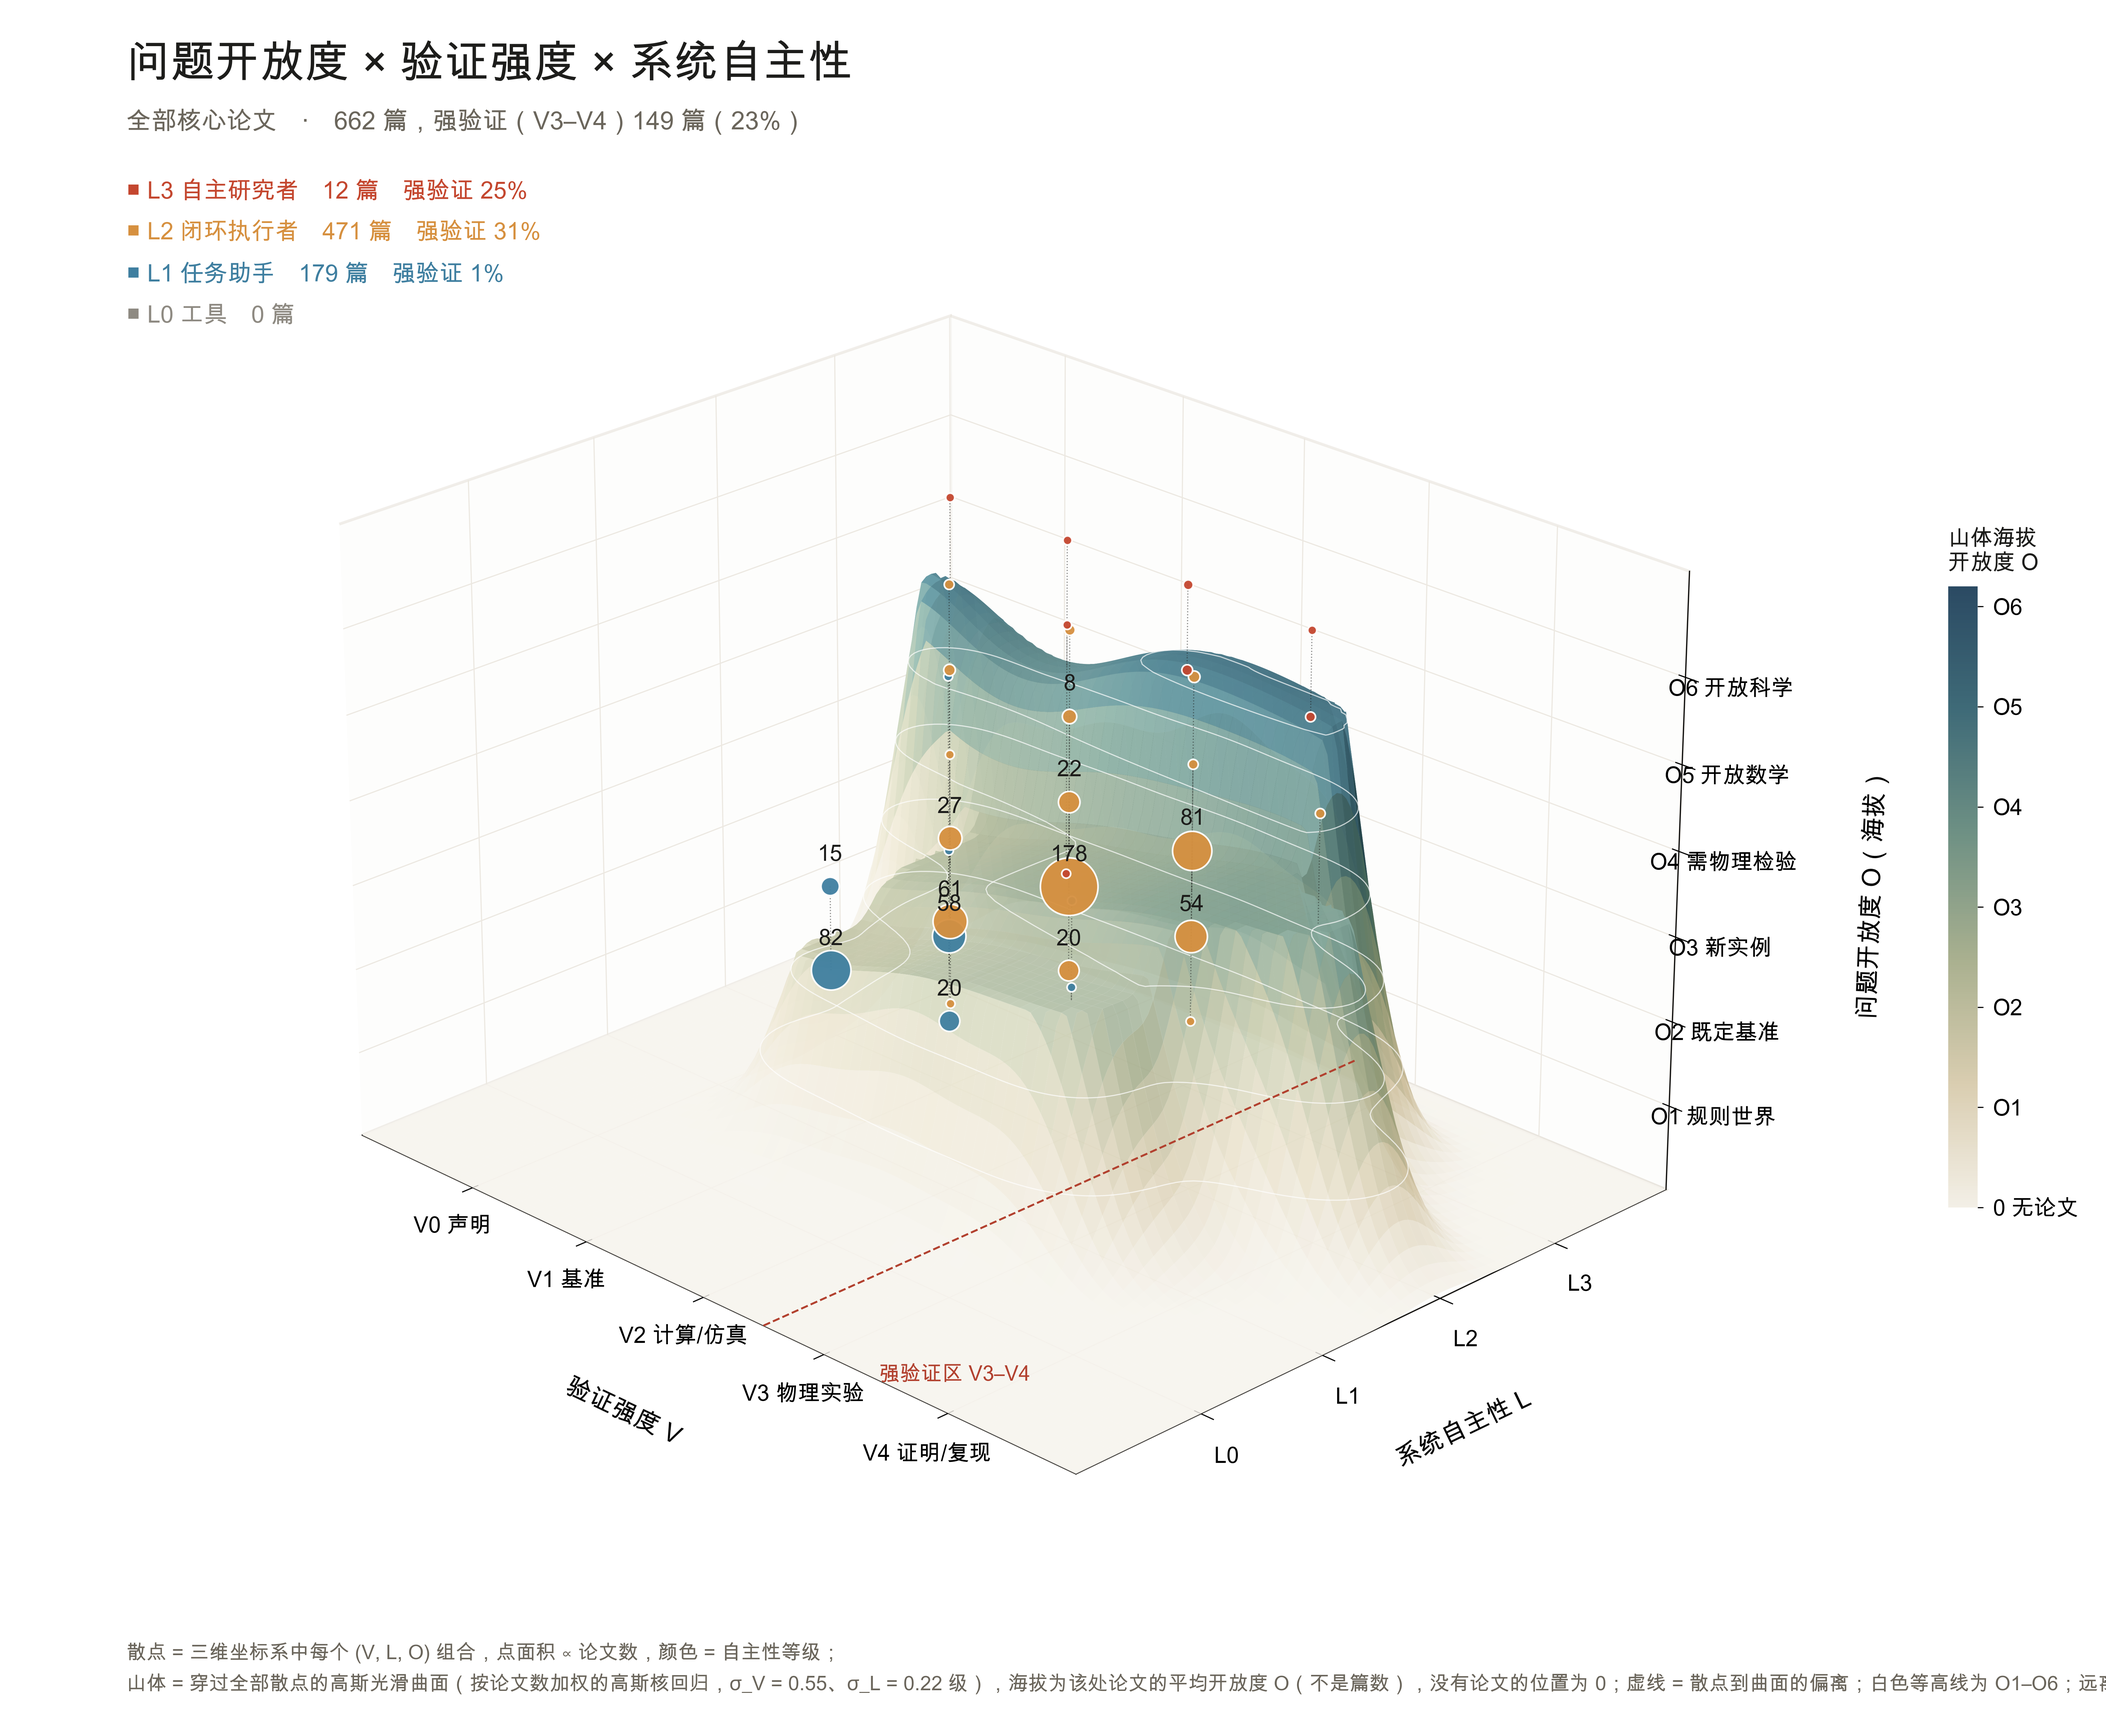
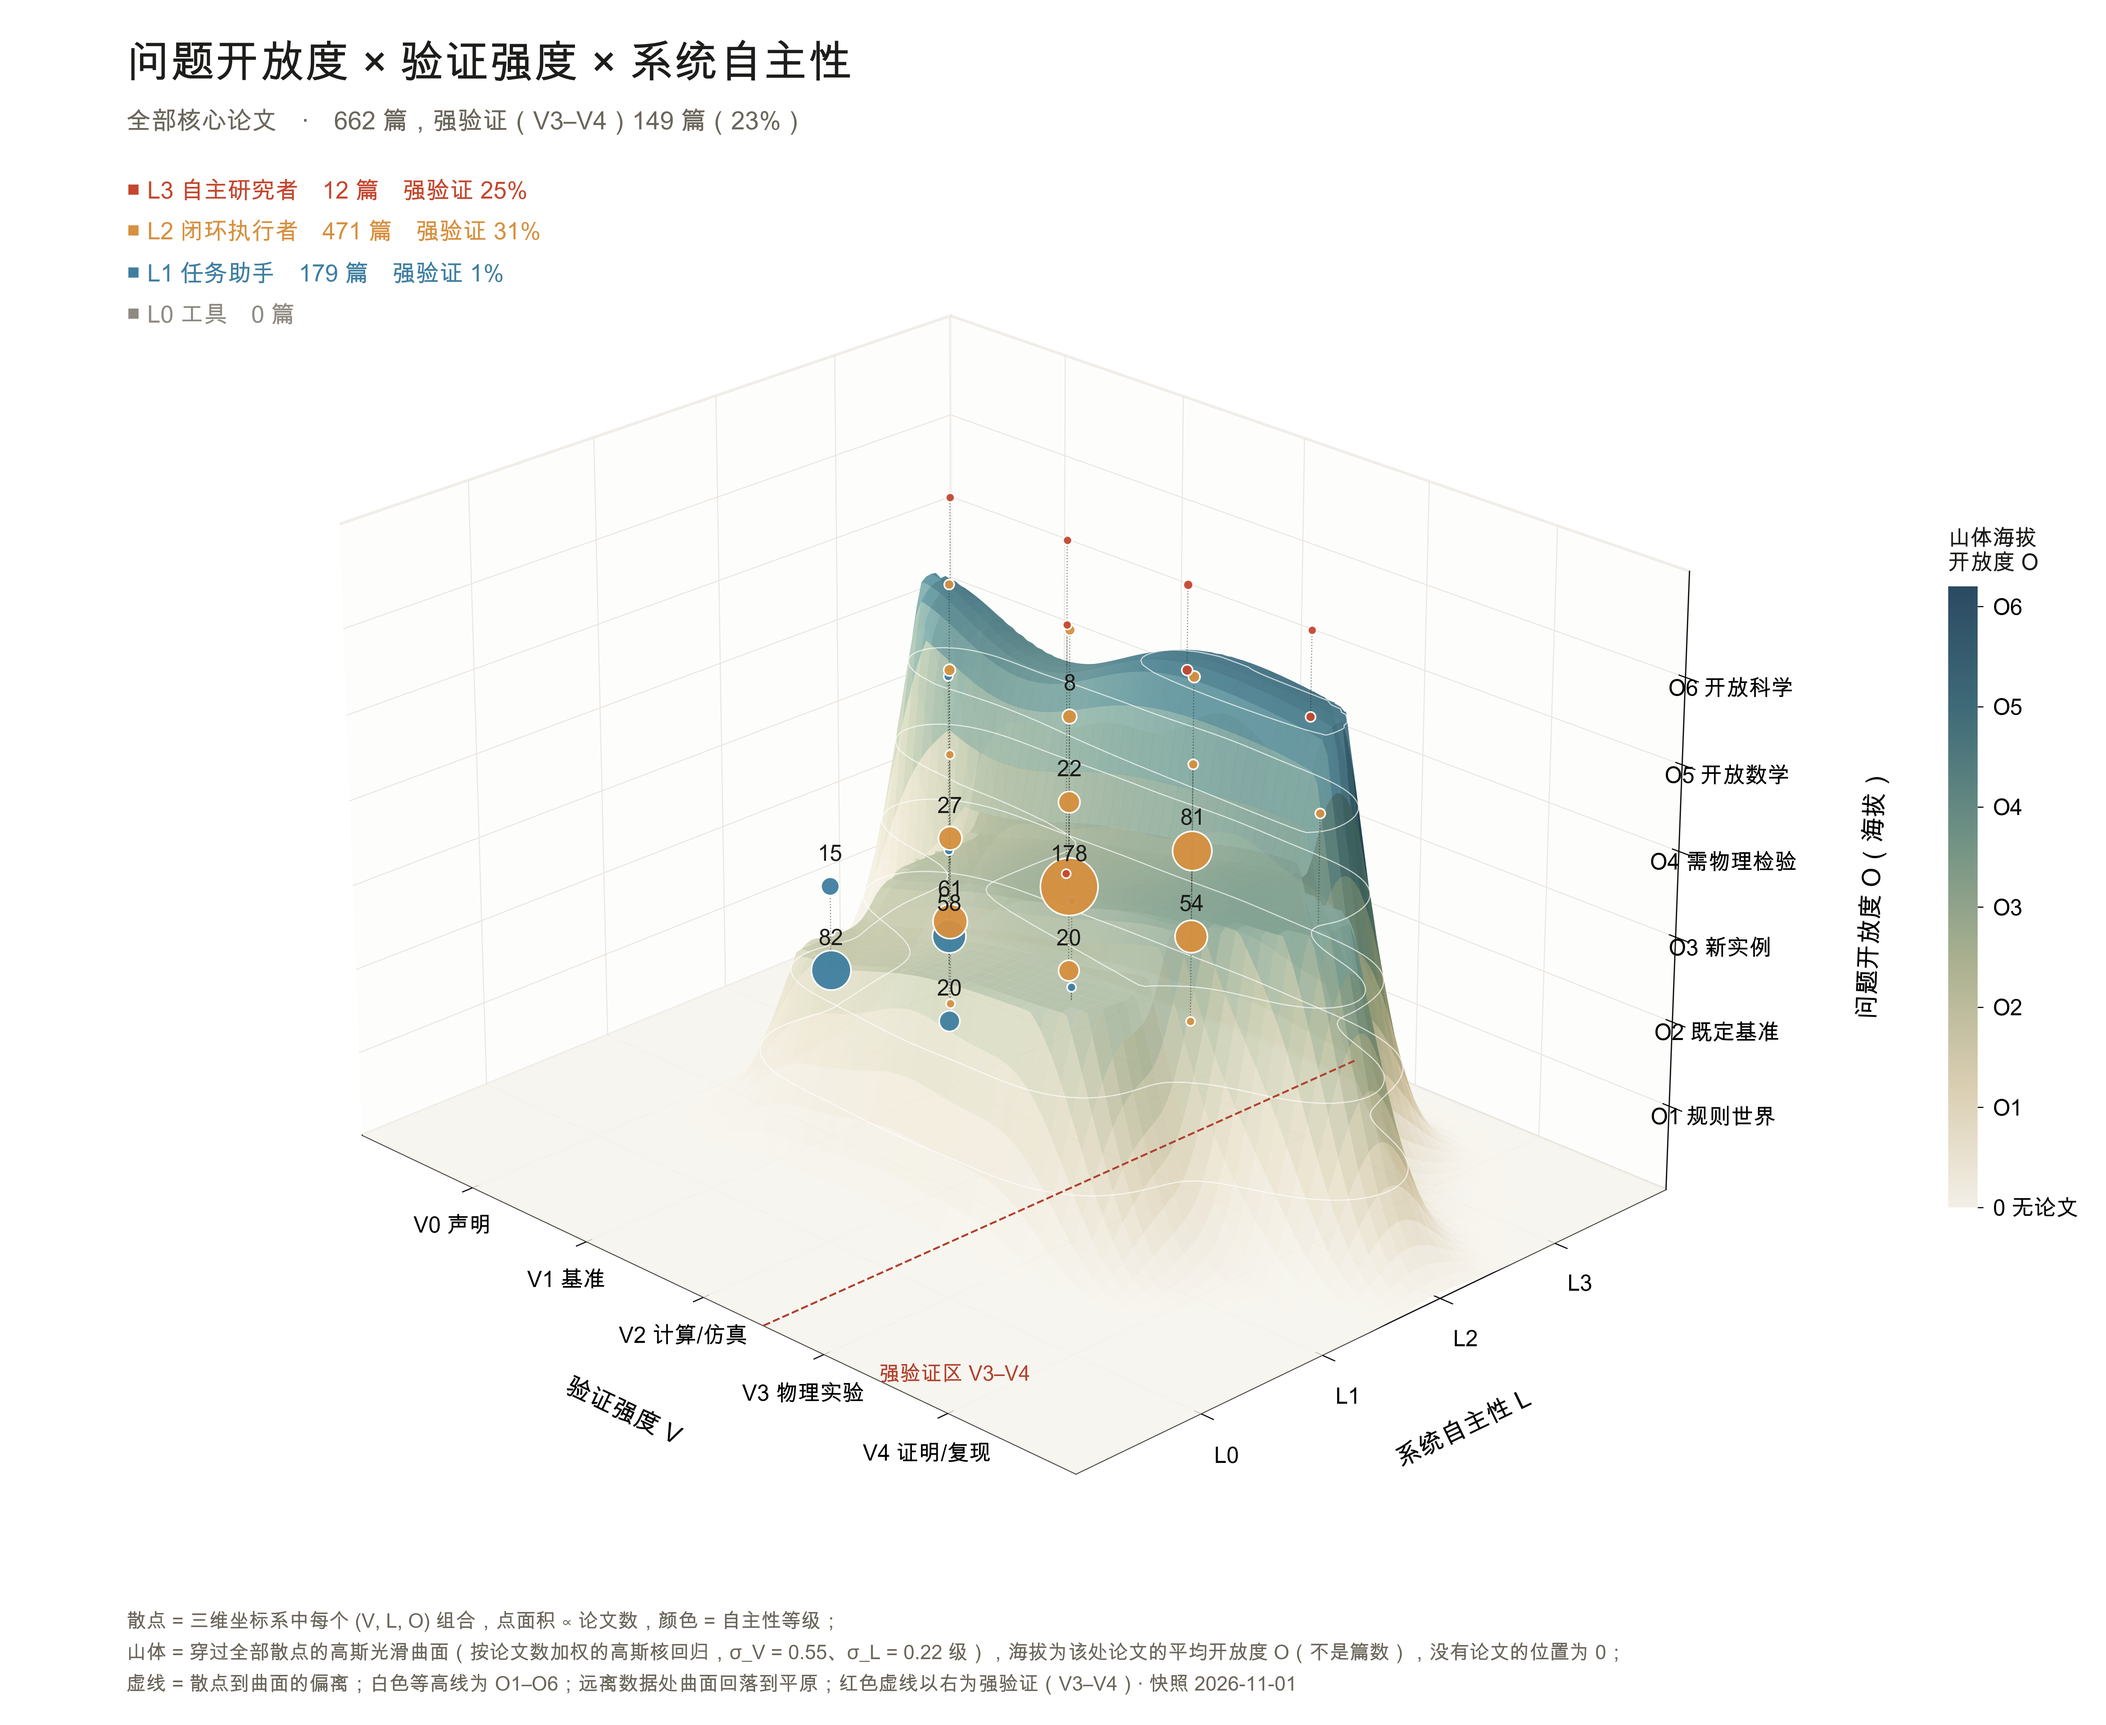
Mountain: wrap the scatter-view footer onto three lines

diff --git a/Autonomous Scientific Discovery/Coverage_Check/openness_verification_increment_2026-11-04/scripts/fig_ovl_surface.py b/Autonomous Scientific Discovery/Coverage_Check/openness_verification_increment_2026-11-04/scripts/fig_ovl_surface.py
@@ -160,7 +160,7 @@ def surface_axes(ax, pts, small=False, cut=False, quant=False):
 
 
 FOOT = ("散点 = 三维坐标系中每个 (V, L, O) 组合，点面积 ∝ 论文数，颜色 = 自主性等级；\n山体 = 穿过全部散点的高斯光滑曲面"
-        "（按论文数加权的高斯核回归，σ_V = 0.55、σ_L = 0.22 级），海拔为该处论文的平均开放度 O（不是篇数），没有论文的位置为 0；虚线 = 散点到曲面的偏离；白色等高线为 O1–O6；"
+        "（按论文数加权的高斯核回归，σ_V = 0.55、σ_L = 0.22 级），海拔为该处论文的平均开放度 O（不是篇数），没有论文的位置为 0；\n虚线 = 散点到曲面的偏离；白色等高线为 O1–O6；"
         "远离数据处曲面回落到平原；红色虚线以右为强验证（V3–V4）· 快照 2026-11-01")
 FOOT_CUT = ("山体 = 穿过全部 (V, L, O) 散点的高斯光滑曲面（按论文数加权的高斯核回归，σ_V = 0.55、σ_L = 0.22 级），海拔为该处论文的平均开放度 O，"
             "没有论文的位置（含 L0 整条线）海拔为 0；\n四条彩色线 = 山体表面上 L0–L3 处的等自主性线；线上数字 = 该 (V, L) 组合的论文数"

diff --git a/Autonomous Scientific Discovery/Figure_Set_2026-11-04/01_three_axes/mountain_surface_3d/white/fig_ovl_surface.py b/Autonomous Scientific Discovery/Figure_Set_2026-11-04/01_three_axes/mountain_surface_3d/white/fig_ovl_surface.py
@@ -160,7 +160,7 @@ def surface_axes(ax, pts, small=False, cut=False, quant=False):
 
 
 FOOT = ("散点 = 三维坐标系中每个 (V, L, O) 组合，点面积 ∝ 论文数，颜色 = 自主性等级；\n山体 = 穿过全部散点的高斯光滑曲面"
-        "（按论文数加权的高斯核回归，σ_V = 0.55、σ_L = 0.22 级），海拔为该处论文的平均开放度 O（不是篇数），没有论文的位置为 0；虚线 = 散点到曲面的偏离；白色等高线为 O1–O6；"
+        "（按论文数加权的高斯核回归，σ_V = 0.55、σ_L = 0.22 级），海拔为该处论文的平均开放度 O（不是篇数），没有论文的位置为 0；\n虚线 = 散点到曲面的偏离；白色等高线为 O1–O6；"
         "远离数据处曲面回落到平原；红色虚线以右为强验证（V3–V4）· 快照 2026-11-01")
 FOOT_CUT = ("山体 = 穿过全部 (V, L, O) 散点的高斯光滑曲面（按论文数加权的高斯核回归，σ_V = 0.55、σ_L = 0.22 级），海拔为该处论文的平均开放度 O，"
             "没有论文的位置（含 L0 整条线）海拔为 0；\n四条彩色线 = 山体表面上 L0–L3 处的等自主性线；线上数字 = 该 (V, L) 组合的论文数"

diff --git a/Autonomous Scientific Discovery/Figure_Set_2026-11-04/01_three_axes/mountain_surface_3d_by_field/white/fig_ovl_surface.py b/Autonomous Scientific Discovery/Figure_Set_2026-11-04/01_three_axes/mountain_surface_3d_by_field/white/fig_ovl_surface.py
@@ -160,7 +160,7 @@ def surface_axes(ax, pts, small=False, cut=False, quant=False):
 
 
 FOOT = ("散点 = 三维坐标系中每个 (V, L, O) 组合，点面积 ∝ 论文数，颜色 = 自主性等级；\n山体 = 穿过全部散点的高斯光滑曲面"
-        "（按论文数加权的高斯核回归，σ_V = 0.55、σ_L = 0.22 级），海拔为该处论文的平均开放度 O（不是篇数），没有论文的位置为 0；虚线 = 散点到曲面的偏离；白色等高线为 O1–O6；"
+        "（按论文数加权的高斯核回归，σ_V = 0.55、σ_L = 0.22 级），海拔为该处论文的平均开放度 O（不是篇数），没有论文的位置为 0；\n虚线 = 散点到曲面的偏离；白色等高线为 O1–O6；"
         "远离数据处曲面回落到平原；红色虚线以右为强验证（V3–V4）· 快照 2026-11-01")
 FOOT_CUT = ("山体 = 穿过全部 (V, L, O) 散点的高斯光滑曲面（按论文数加权的高斯核回归，σ_V = 0.55、σ_L = 0.22 级），海拔为该处论文的平均开放度 O，"
             "没有论文的位置（含 L0 整条线）海拔为 0；\n四条彩色线 = 山体表面上 L0–L3 处的等自主性线；线上数字 = 该 (V, L) 组合的论文数"

diff --git a/Autonomous Scientific Discovery/Figure_Set_2026-11-04/code/fig_ovl_surface.py b/Autonomous Scientific Discovery/Figure_Set_2026-11-04/code/fig_ovl_surface.py
@@ -160,7 +160,7 @@ def surface_axes(ax, pts, small=False, cut=False, quant=False):
 
 
 FOOT = ("散点 = 三维坐标系中每个 (V, L, O) 组合，点面积 ∝ 论文数，颜色 = 自主性等级；\n山体 = 穿过全部散点的高斯光滑曲面"
-        "（按论文数加权的高斯核回归，σ_V = 0.55、σ_L = 0.22 级），海拔为该处论文的平均开放度 O（不是篇数），没有论文的位置为 0；虚线 = 散点到曲面的偏离；白色等高线为 O1–O6；"
+        "（按论文数加权的高斯核回归，σ_V = 0.55、σ_L = 0.22 级），海拔为该处论文的平均开放度 O（不是篇数），没有论文的位置为 0；\n虚线 = 散点到曲面的偏离；白色等高线为 O1–O6；"
         "远离数据处曲面回落到平原；红色虚线以右为强验证（V3–V4）· 快照 2026-11-01")
 FOOT_CUT = ("山体 = 穿过全部 (V, L, O) 散点的高斯光滑曲面（按论文数加权的高斯核回归，σ_V = 0.55、σ_L = 0.22 级），海拔为该处论文的平均开放度 O，"
             "没有论文的位置（含 L0 整条线）海拔为 0；\n四条彩色线 = 山体表面上 L0–L3 处的等自主性线；线上数字 = 该 (V, L) 组合的论文数"
